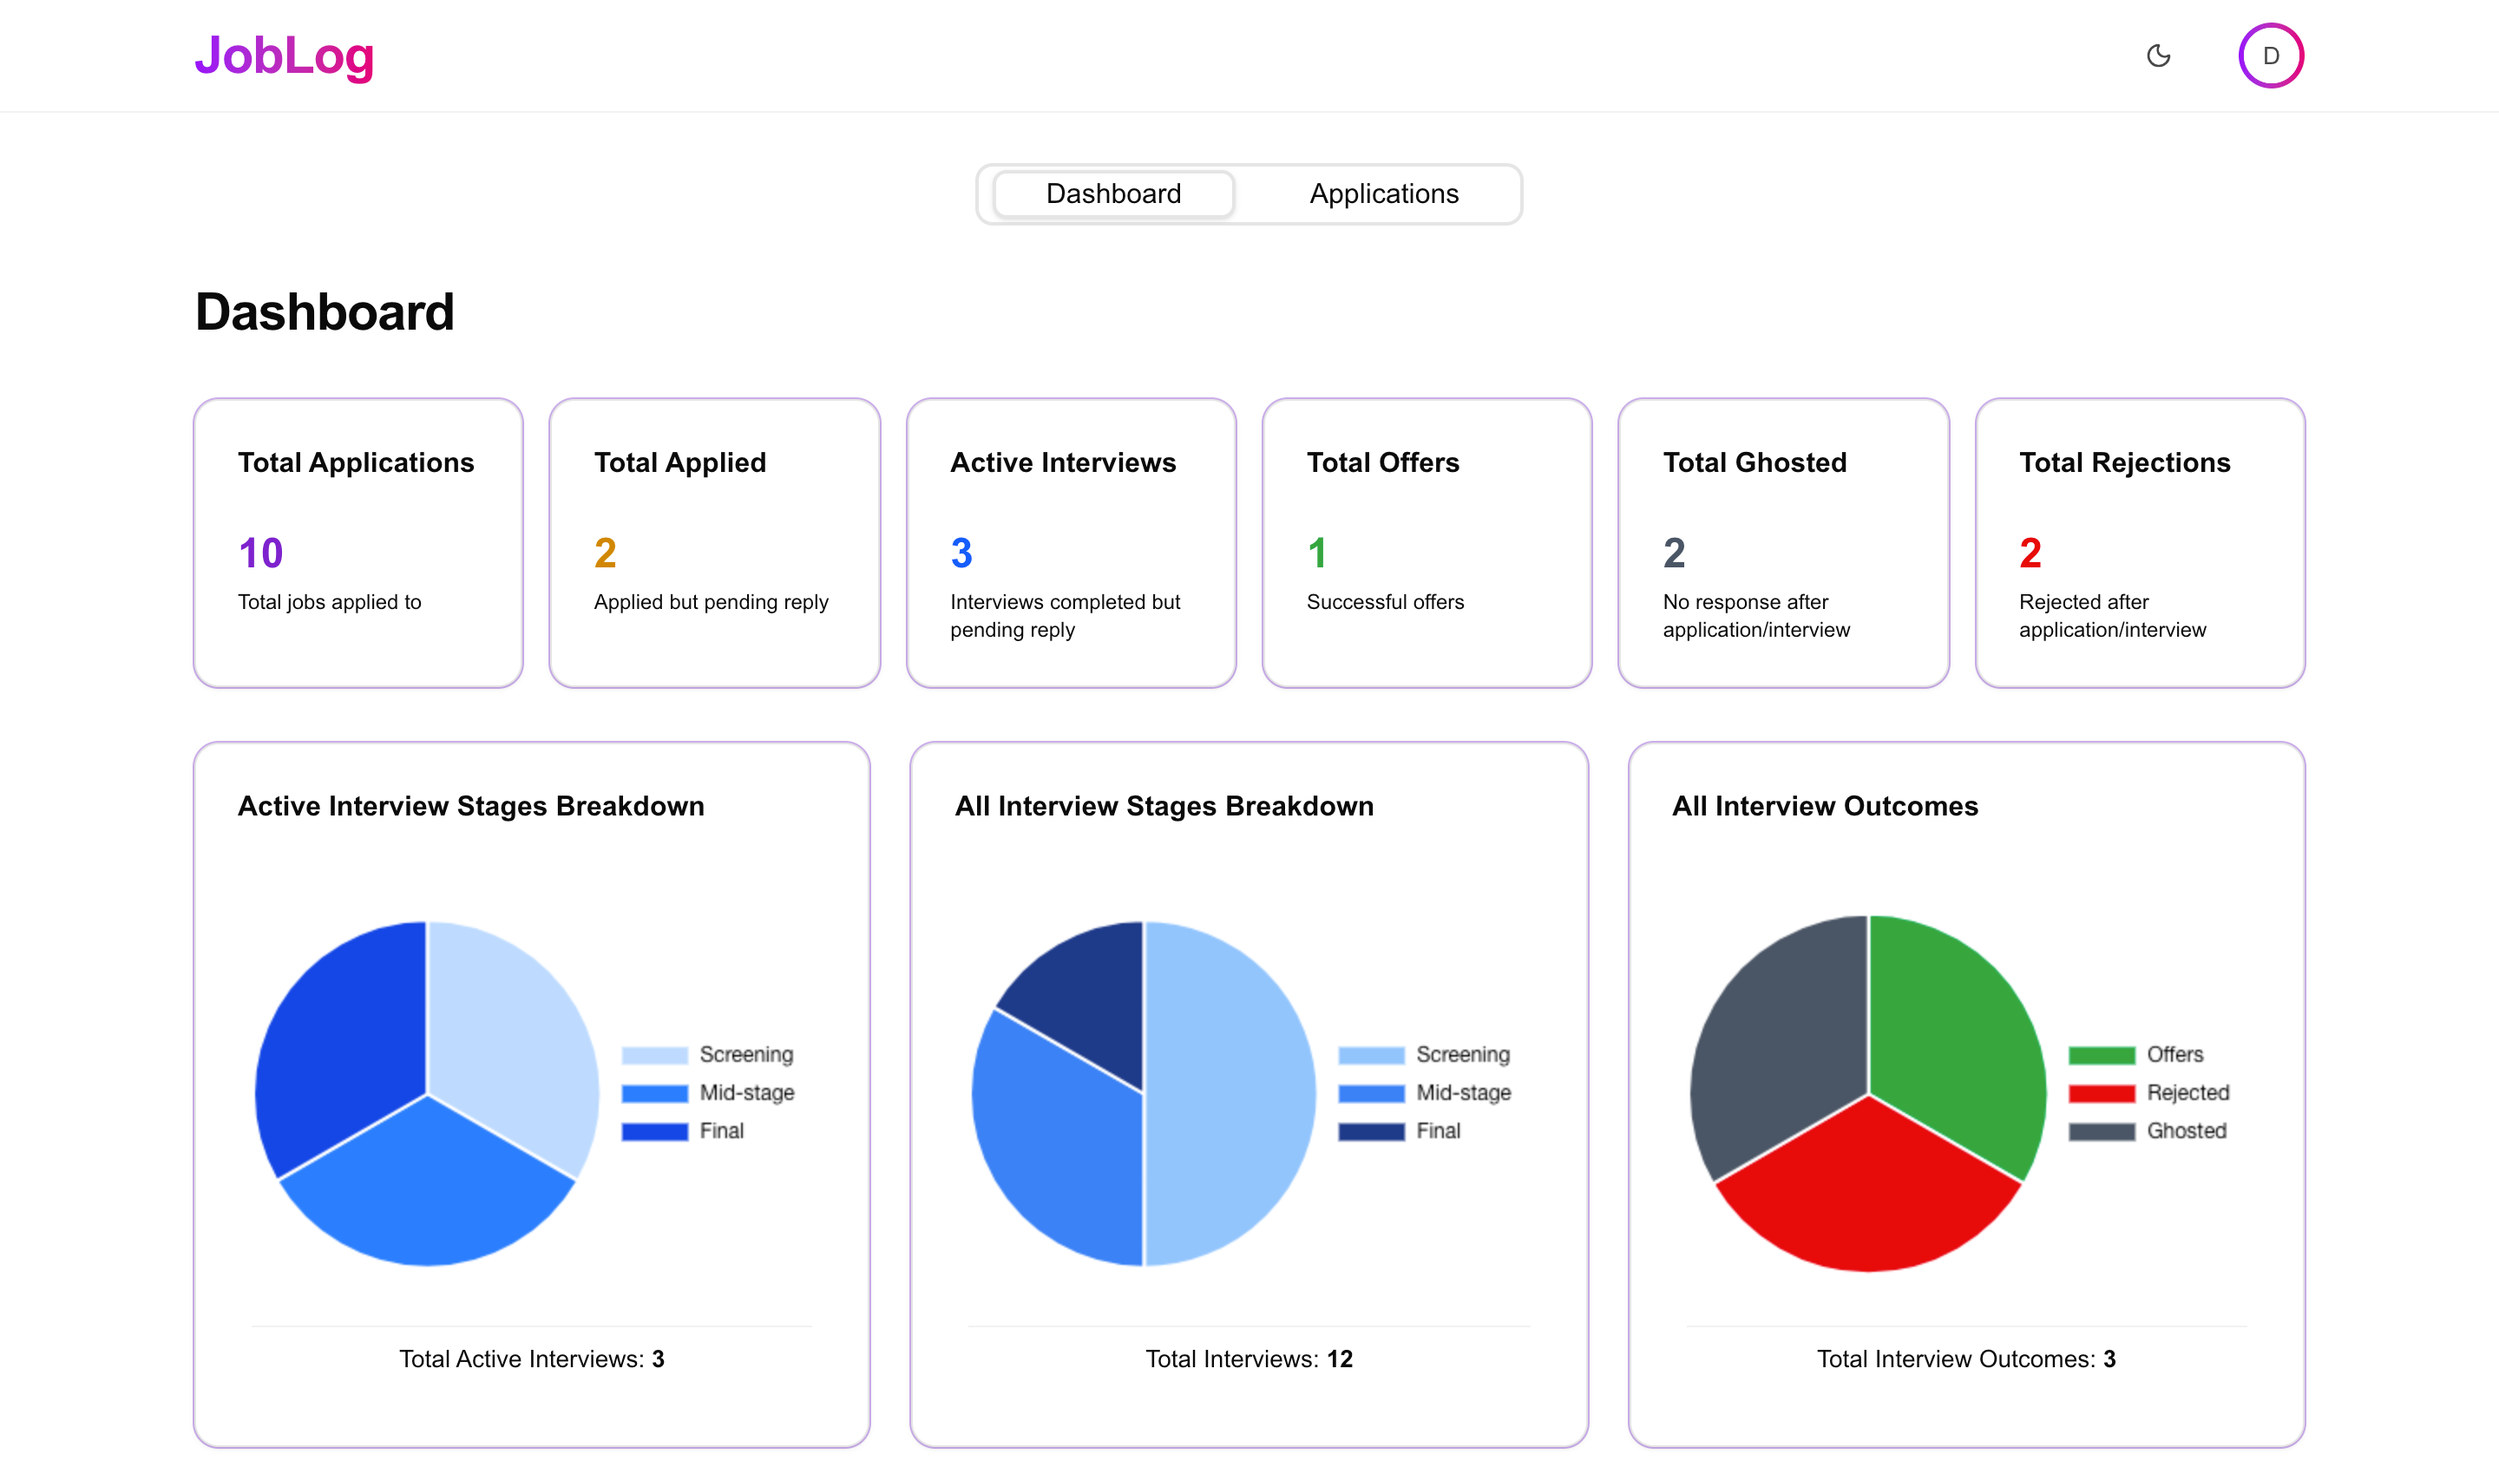
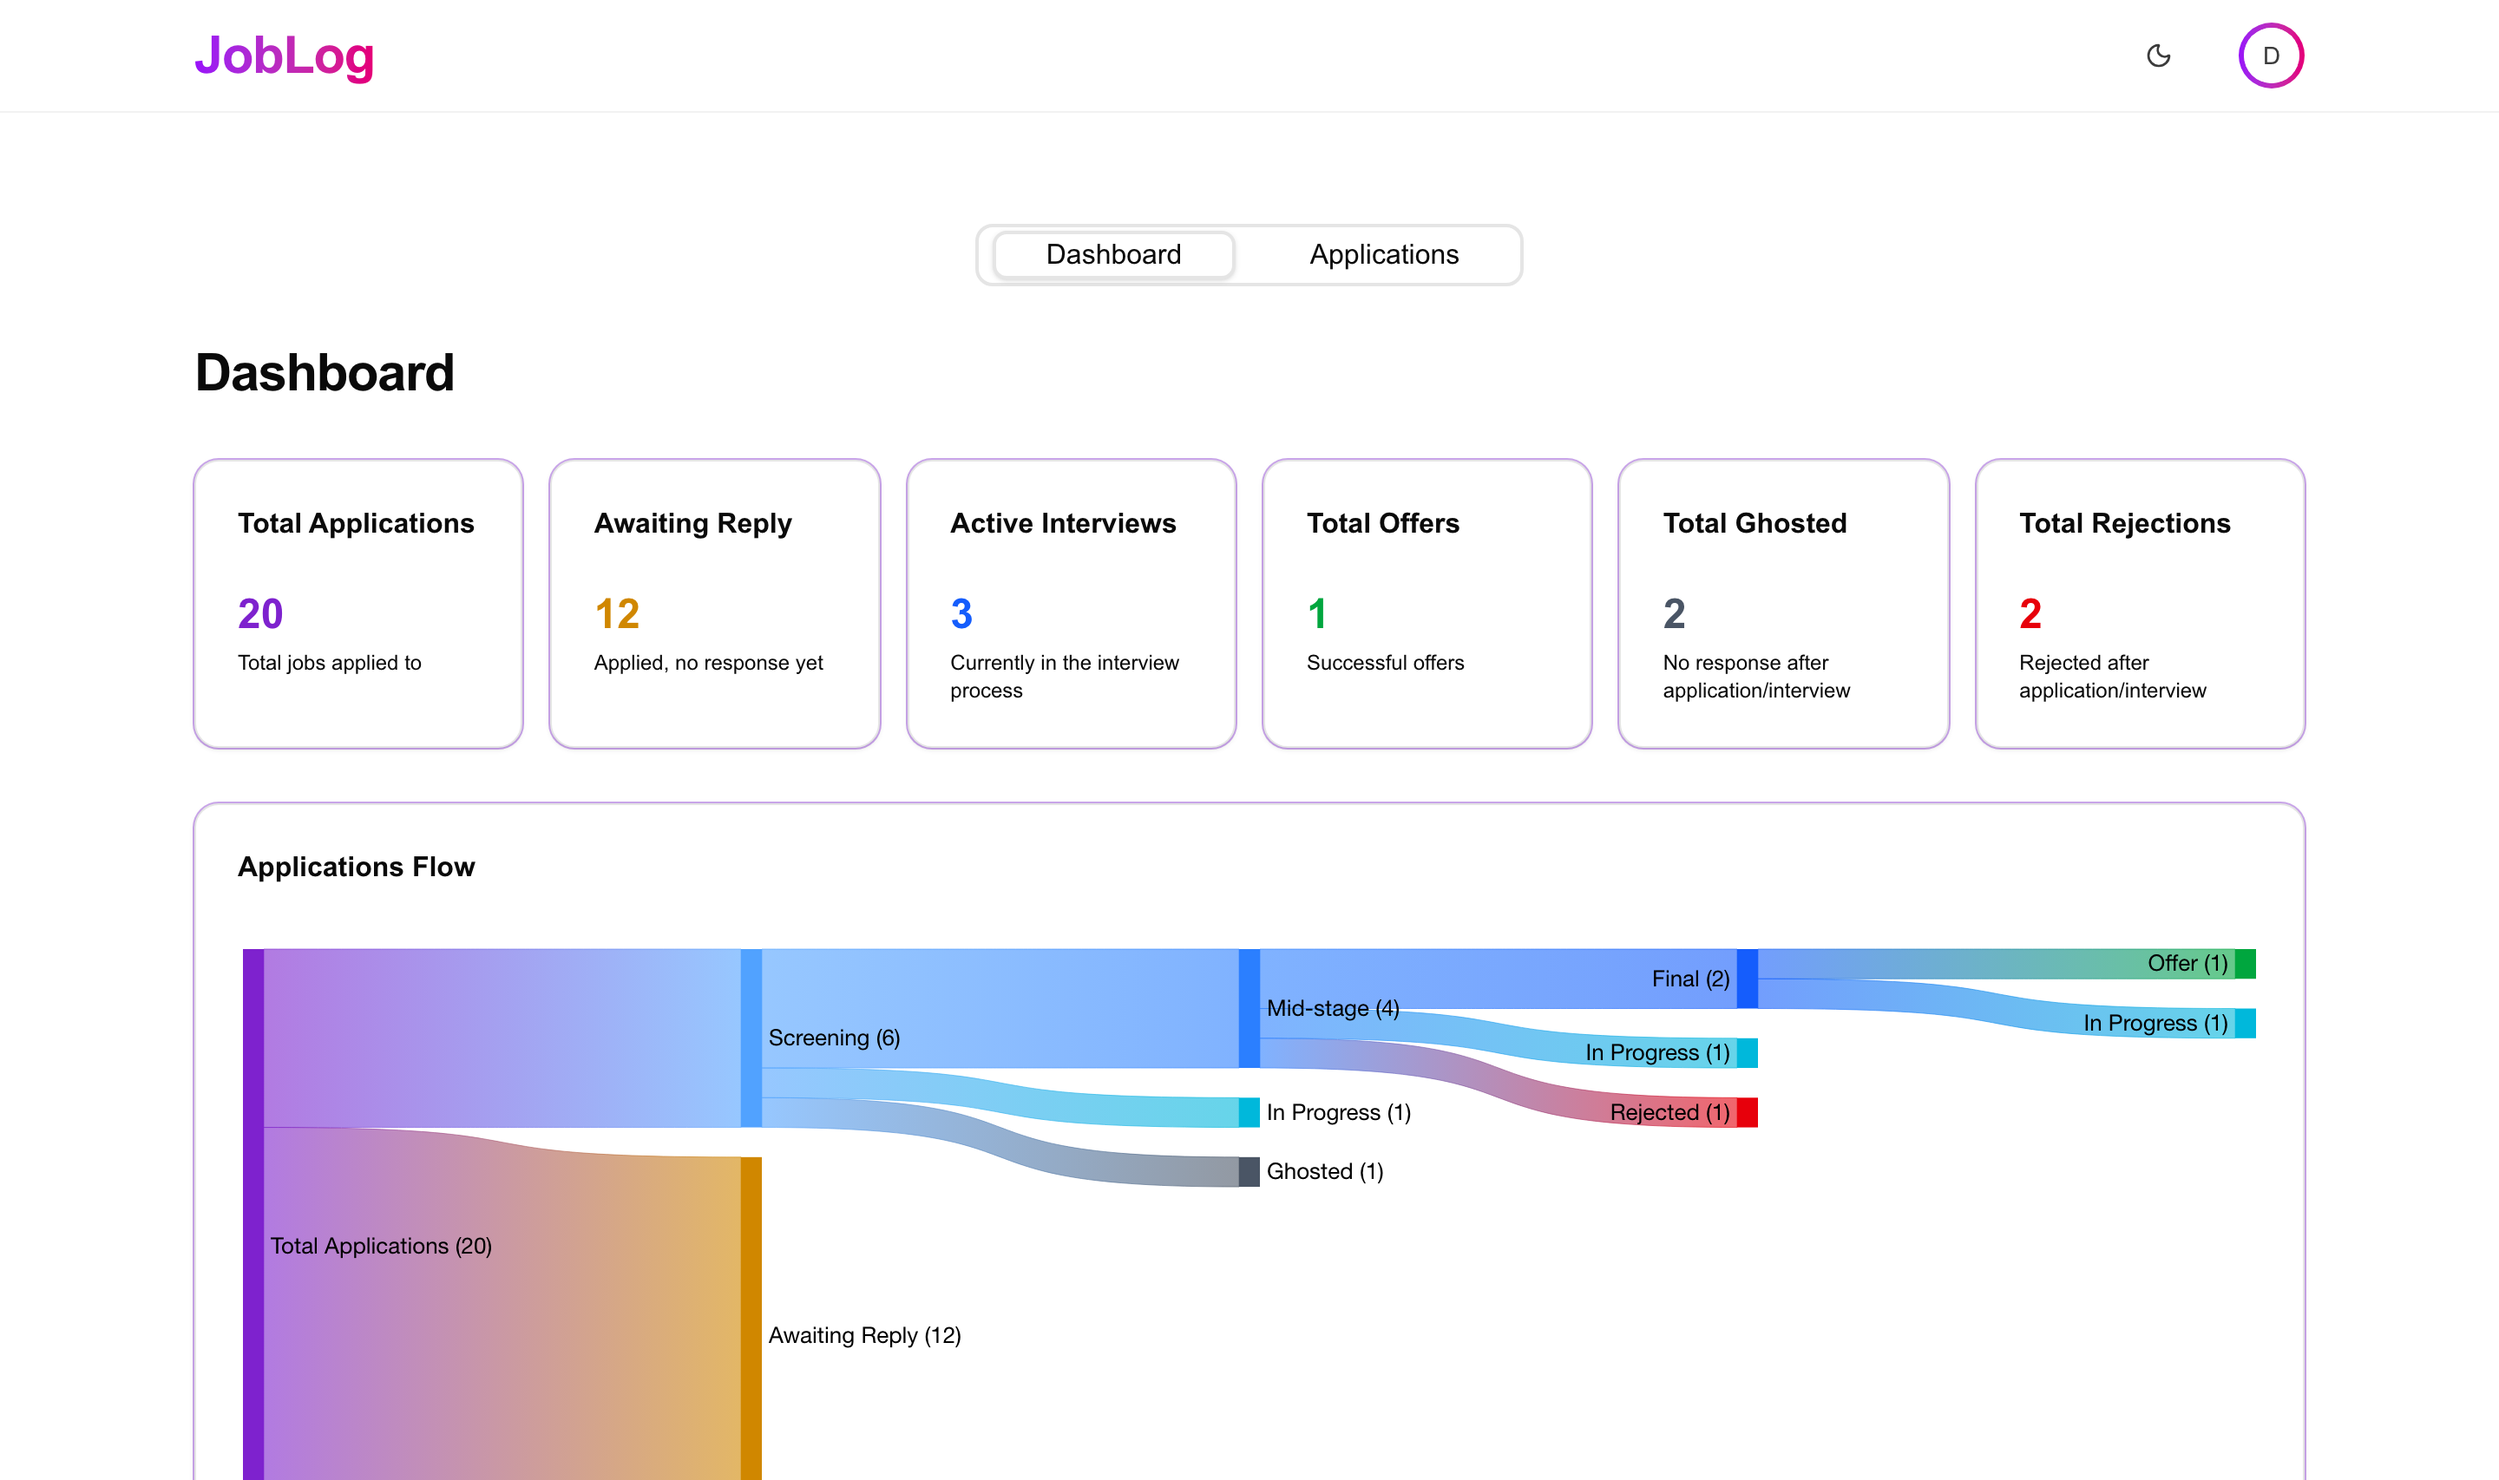
Update screenshots and README for the dashboard redesign
Retake the README, landing page and carousel screenshots from a demo
session (the dashboard is now four images: overview, applications flow,
needs attention / job boards / response time, and daily trend), add the
fourth image to the landing page carousel, and update the README's
feature list, screenshot captions and test counts.

diff --git a/frontend/src/components/ScreenshotCarousel.tsx b/frontend/src/components/ScreenshotCarousel.tsx
@@ -15,23 +15,30 @@ import { useTheme } from "next-themes"
 
 const IMAGES = [
     { 
-        alt: "Dashboard Key Metrics",
+        alt: "Dashboard Overview",
         light: "/images/dashboard1-light.png",
         dark: "/images/dashboard1-dark.png",
         width: 1200, 
-        height: 600, 
+        height: 600,
     },
     { 
-        alt: "Dashboard Daily Trend",
+        alt: "Dashboard Applications Flow",
         light: "/images/dashboard2-light.png",
         dark: "/images/dashboard2-dark.png",
         width: 1200, 
         height: 600,
     },
     { 
-        alt: "Dashboard Application Flow",
+        alt: "Dashboard Needs Attention, Job Boards and Response Time",
         light: "/images/dashboard3-light.png",
         dark: "/images/dashboard3-dark.png",
+        width: 1200, 
+        height: 600,
+    },
+    { 
+        alt: "Dashboard Daily Trend",
+        light: "/images/dashboard4-light.png",
+        dark: "/images/dashboard4-dark.png",
         width: 1200, 
         height: 600,
     },

diff --git a/README.md b/README.md
@@ -35,11 +35,12 @@ It is designed to provide clarity, organisation, and insights throughout the job
 * **UI/UX:** Dedicated views for desktop (**TanStack Table**) and mobile (**Responsive card view**).
 
 ### Dashboard & Analytics
-* **Key Metrics:** Track total applications, offers, rejections, interviews, etc.
-* **Visual Insights:**
-    * Active Interview Type Breakdown, Past Interview Type Breakdown and Interview Outcomes (Chart.js Pie Charts).
-    * Daily Application Trend Line Chart with monthly comparison.
-    * Application Flow Visualisation (Google Charts Sankey).
+* **Key Metrics:** Track total applications, applications awaiting a reply, active interviews, offers, rejections and ghosted applications.
+* **Applications Flow:** A Sankey chart following every application through Screening, Mid-stage and Final interviews, with outcomes shown where they happened.
+* **Needs Attention:** Interviews with no update for 7+ days (worth a follow-up) and applications with no reply for 30+ days, with one-click or bulk "Mark as Ghosted".
+* **Job Boards:** Applications and interviews per job board (LinkedIn, Seek, Indeed, company sites), worked out from the job posting link.
+* **Response Time:** Typical number of days until a company first replies, and until a first interview.
+* **Daily Trend:** Applications per day this month, compared against the same days of last month.
  
 ### Authentication & Security
 * **Secure Identity:** Account registration with Brevo email verification.
@@ -68,10 +69,10 @@ It is designed to provide clarity, organisation, and insights throughout the job
 
 ## 🧪 Testing <a id="testing"></a>
 
-The backend is covered by a suite of **81 automated tests** using **xUnit**, **Moq**, and the **EF Core In-Memory Provider**.
+The backend is covered by a suite of **94 automated tests** using **xUnit**, **Moq**, and the **EF Core In-Memory Provider**.
 
-* **Unit Tests (37):** Cover core business logic across services, including status transition rules, JWT token generation, analytics calculations, and authentication logic, using mocked dependencies for full isolation.
-* **Integration Tests (44):** Use `WebApplicationFactory` to exercise the full HTTP pipeline, including routing, JWT authentication, and controller behaviour, against a real (in-memory) database. Includes security tests for the demo account guard, input validation, rate limiting, session renewal and session revocation, plus per-visitor demo isolation and cleanup.
+* **Unit Tests (47):** Cover core business logic across services, including status transition rules, JWT token generation, analytics calculations, and authentication logic, using mocked dependencies for full isolation.
+* **Integration Tests (47):** Use `WebApplicationFactory` to exercise the full HTTP pipeline, including routing, JWT authentication, and controller behaviour, against a real (in-memory) database. Includes security tests for the demo account guard, input validation, rate limiting, session renewal and session revocation, plus per-visitor demo isolation and cleanup.
 * **CI Pipeline:** Tests run automatically on every push via **GitHub Actions**, and gate production deployment. A failing test blocks the release.
 
 Run the full suite locally:
@@ -95,32 +96,42 @@ The application's introduction, highlighting key features and providing access t
 
 The analytics hub where you can visualise your job search.
 
-**1. Key metrics, Stages, & Outcomes**
+**1. Overview**
 
-The high-level summary of all activity, coupled with interview stage breakdowns and interview outcomes.
+The high-level summary of all activity: total applications, applications awaiting a reply, active interviews, offers, ghosted applications and rejections.
 
 <div align="center">
-  <img src="frontend/public/images/dashboard1-dark.png" alt="Dashboard Metrics and Pie Charts Screenshot" width="600">
+  <img src="frontend/public/images/dashboard1-dark.png" alt="Dashboard Key Metrics Screenshot" width="600">
 </div>
 
 <br>
 
-**2. Daily Application Trend**
+**2. Applications Flow**
 
-A line chart showing the consistency of your daily application efforts compared to previous periods.
+A Sankey diagram following every application from submission through Screening, Mid-stage and Final interviews, with each outcome shown at the stage where it happened.
 
 <div align="center">
-  <img src="frontend/public/images/dashboard2-dark.png" alt="Daily Application Trend Line Chart Screenshot" width="600">
+  <img src="frontend/public/images/dashboard2-dark.png" alt="Applications Flow Sankey Chart Screenshot" width="600">
 </div>
 
 <br>
 
-**3. Application Flow**
+**3. Needs Attention, Job Boards & Response Time**
 
-A Sankey diagram illustrating how applications transition through the pipeline from initial submission to final status.
+Interviews worth following up and long-unanswered applications (with one-click "Mark as Ghosted"), applications and interviews per job board, and how long companies typically take to reply.
 
 <div align="center">
-  <img src="frontend/public/images/dashboard3-dark.png" alt="Application Flow Sankey Chart Screenshot" width="600">
+  <img src="frontend/public/images/dashboard3-dark.png" alt="Needs Attention, Job Boards and Response Time Screenshot" width="600">
+</div>
+
+<br>
+
+**4. Daily Application Trend**
+
+Applications per day this month, compared against the same days of last month.
+
+<div align="center">
+  <img src="frontend/public/images/dashboard4-dark.png" alt="Daily Application Trend Line Chart Screenshot" width="600">
 </div>
 
 ### Application Tracker Page
@@ -153,7 +164,7 @@ The extension popup, demonstrating successful data capture and theme responsiven
 | **Authentication** | `JWT` (HttpOnly Cookies), `BCrypt` | Sliding 30-day sessions with token-version revocation and secure password hashing. |
 | **Email** | `Brevo` | Transactional email API for user verification and password reset flows. |
 | **Extension** | `HTML`, `CSS`, `Vanilla JavaScript` | Browser-specific APIs (chrome.scripting, chrome.storage). |
-| **Testing** | `xUnit, Moq, EF Core InMemory` | 81 tests (unit and integration), CI gated deployment. |
+| **Testing** | `xUnit, Moq, EF Core InMemory` | 94 tests (unit and integration), CI gated deployment. |
 
 ---
 
@@ -235,7 +246,7 @@ For local development, JobLog uses **Docker Compose** to run the PostgreSQL data
 }
 ```
 
-If the Brevo settings are left empty, no emails are sent, so registration and password-reset links won't arrive. Rate limits can optionally be tuned under `RateLimiting` (`AuthPermitLimit`, `EmailPermitLimit`, `GlobalPermitLimit`).
+If the Brevo settings are left empty, no emails are sent, so registration and password-reset links won't arrive. Rate limits can optionally be tuned under `RateLimiting` (`AuthPermitLimit`, `EmailPermitLimit`, `GlobalPermitLimit`, `DemoPermitLimit`).
 
 ### 1. Start Database (via Docker Compose)
 
